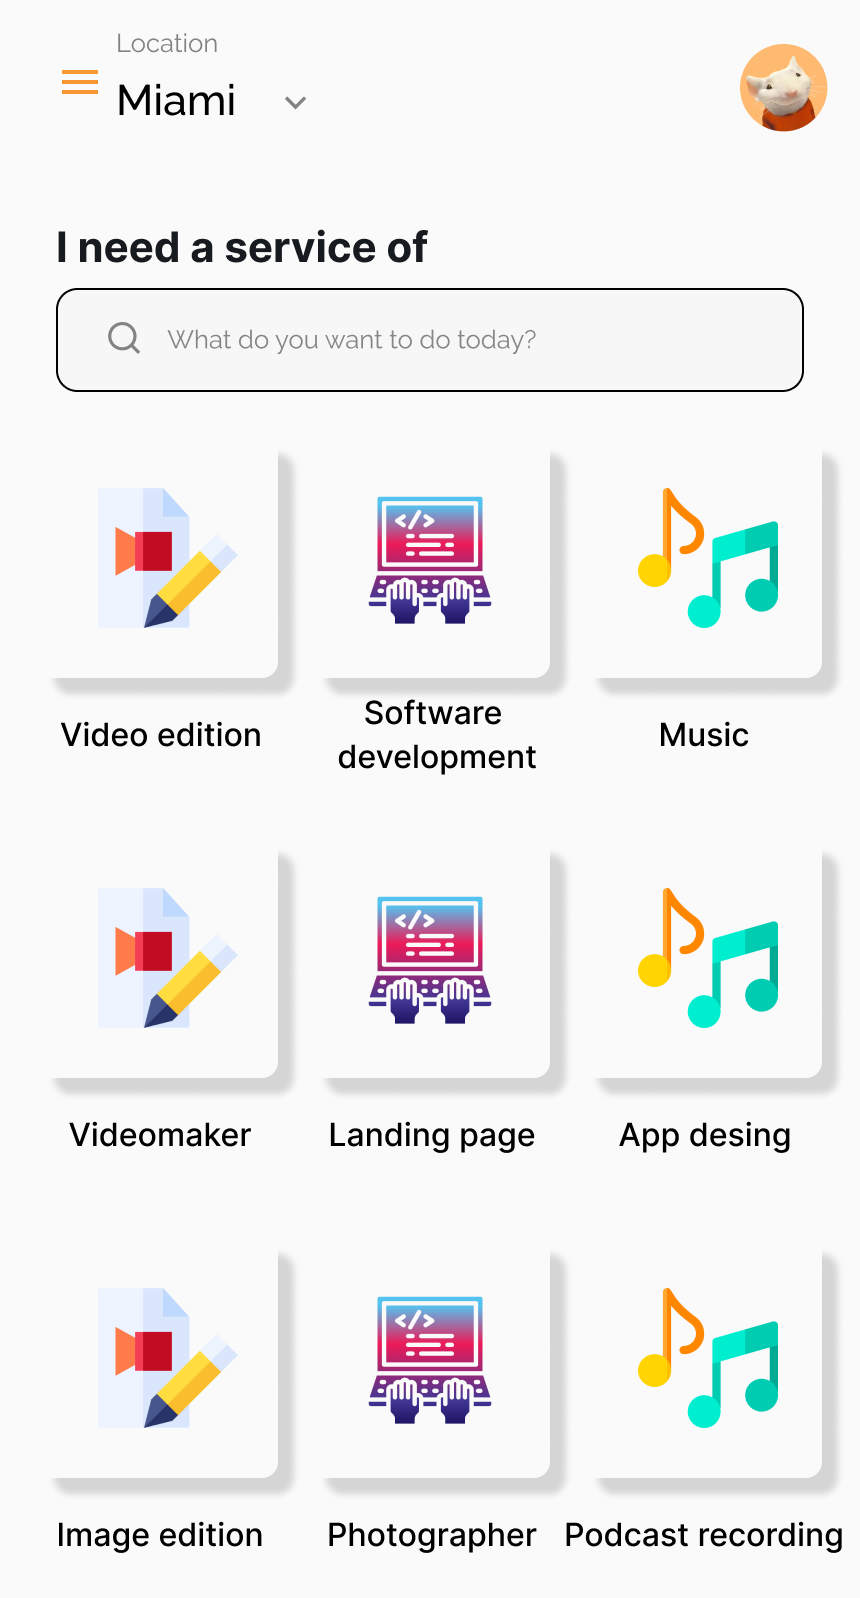
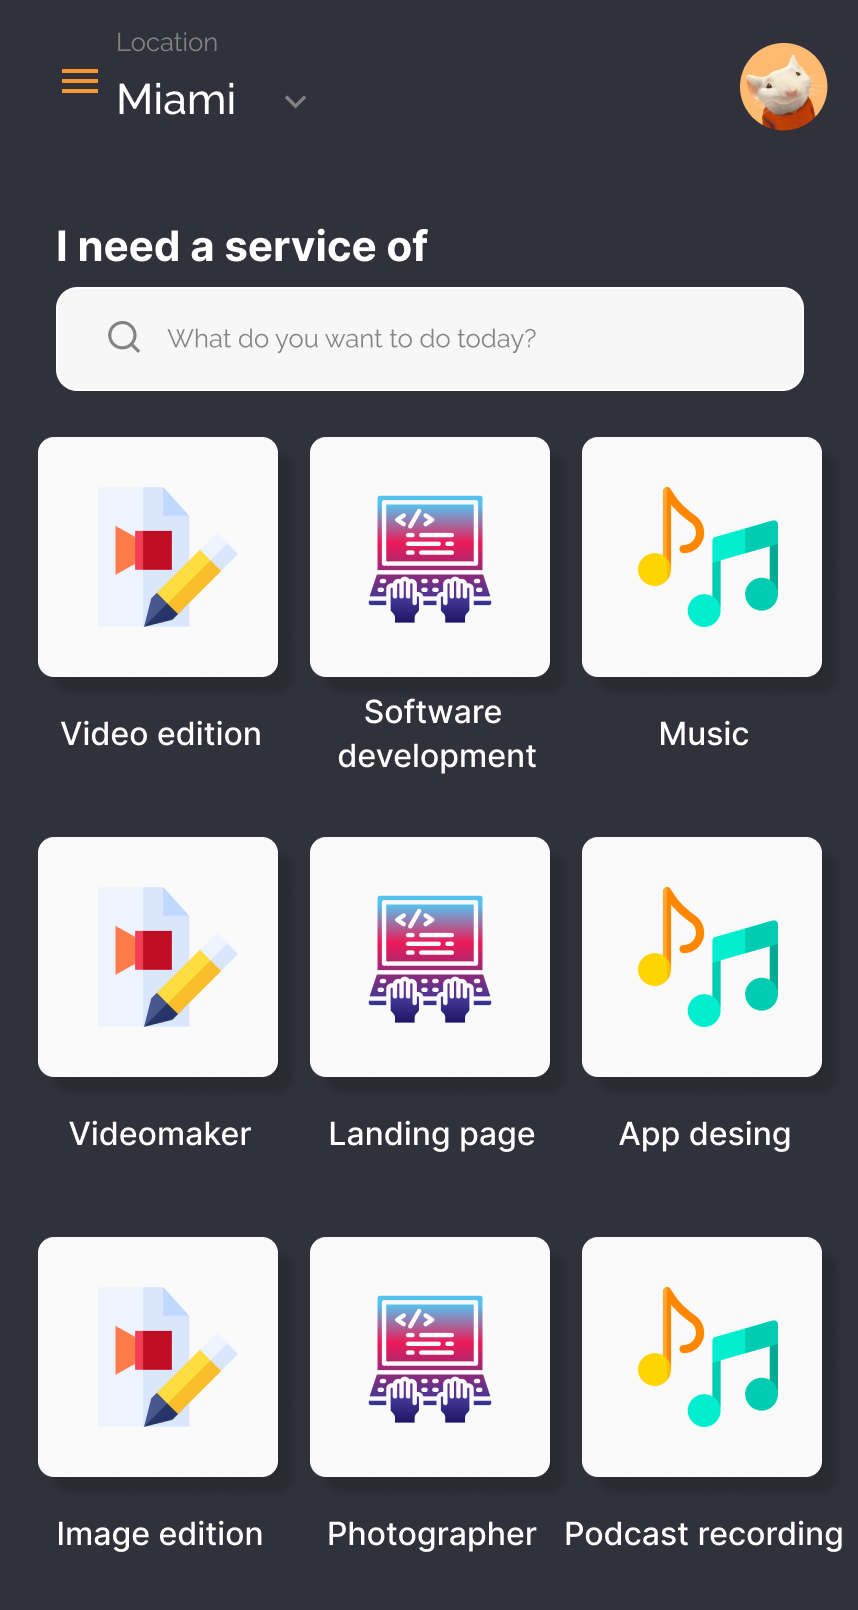
feat: :sparkles: ok

diff --git a/src/app/profile/[user]/page.tsx b/src/app/profile/[user]/page.tsx
@@ -1,61 +1,63 @@
-'use client';
+"use client";
 
-import ProfileHeader from '@/components/ProfileHeader';
-import ProfileStats from '@/components/ProfileStats';
-import StatisticsButton from '@/components/StatisticButton';
-import React from 'react';
-import {CardPost} from "@/components/CardPost";
+import ProfileHeader from "@/components/ProfileHeader";
+import ProfileStats from "@/components/ProfileStats";
+import StatisticsButton from "@/components/StatisticButton";
+import React from "react";
+import { CardPost } from "@/components/CardPost";
 
 interface posts {
-    imageUrl: string,
-    title: string,
-    username: string,
-    photoUrl: string,
-    profession: string
+  imageUrl: string;
+  title: string;
+  username: string;
+  photoUrl: string;
+  profession: string;
 }
 
 const TikTokerProfile = () => {
-    const posts: posts[] = [
-        {
-            imageUrl: '/post.png',
-            title: 'Lorem ipsum dolor sit amet',
-            username: 'John Doe',
-            photoUrl: '/user.png',
-            profession: 'TikToker'
-        },
-        {
-            imageUrl: '/post.png',
-            title: 'Lorem ipsum dolor sit amet',
-            username: 'John Doe',
-            photoUrl: '/user.png',
-            profession: 'TikToker'
-        },
-        {
-            imageUrl: '/post.png',
-            title: 'Lorem ipsum dolor sit amet',
-            username: 'John Doe',
-            photoUrl: '/user.png',
-            profession: 'TikToker'
-        }
-    ];
-    return (
-        <div className="container bg-body mx-auto max-w-2xl">
+  const posts: posts[] = [
+    {
+      imageUrl: "/post.png",
+      title: "Lorem ipsum dolor sit amet",
+      username: "John Doe",
+      photoUrl: "/user.png",
+      profession: "TikToker",
+    },
+    {
+      imageUrl: "/post.png",
+      title: "Lorem ipsum dolor sit amet",
+      username: "John Doe",
+      photoUrl: "/user.png",
+      profession: "TikToker",
+    },
+    {
+      imageUrl: "/post.png",
+      title: "Lorem ipsum dolor sit amet",
+      username: "John Doe",
+      photoUrl: "/user.png",
+      profession: "TikToker",
+    },
+  ];
+  return (
+    <div className="container bg-body mx-auto max-w-2xl pb-20">
+      <ProfileHeader />
+      <ProfileStats />
 
-            <ProfileHeader/>
-            <ProfileStats/>
-
-            <div className="flex justify-center mt-4">
-                <StatisticsButton/>
-            </div>
-            {
-                posts.map((post, index) => (
-                    <CardPost key={index} imageUrl={post.imageUrl} title={post.title}
-                              username={post.username} photoUrl={post.photoUrl} profession={post.profession}/>
-                ))
-            }
-        </div>
-
-    );
+      <div className="flex justify-center mt-4">
+        <StatisticsButton />
+      </div>
+      {posts.map((post, index) => (
+        <CardPost
+          key={index}
+          imageUrl={post.imageUrl}
+          title={post.title}
+          username={post.username}
+          photoUrl={post.photoUrl}
+          profession={post.profession}
+        />
+      ))}
+    </div>
+  );
 };
 
 export default TikTokerProfile;

diff --git a/src/components/CardPost/index.tsx b/src/components/CardPost/index.tsx
@@ -1,21 +1,36 @@
 import React from "react";
-import {CardHeader} from "@/components/CardHeader";
+import { CardHeader } from "@/components/CardHeader";
 import Image from "next/image";
 
 interface Props {
-    imageUrl: string;
-    title: string;
-    username: string;
-    photoUrl: string;
-    profession: string;
+  imageUrl: string;
+  title: string;
+  username: string;
+  photoUrl: string;
+  profession: string;
 }
 
-export const CardPost = ({imageUrl, title, username, photoUrl, profession}: Props) => {
-    return (
-        <div className="rounded-md shadow-md p-4 mt-4">
-            <CardHeader username={username} photoUrl={photoUrl} profession={profession}/>
-            <Image src={imageUrl} alt={title} className="w-full h-28 object-cover" style={{height: '279px'}}
-                   width={100} height={100}/>
-        </div>
-    );
+export const CardPost = ({
+  imageUrl,
+  title,
+  username,
+  photoUrl,
+  profession,
+}: Props) => {
+  return (
+    <div className="bg-card rounded-md shadow-md my-4 mx-2 p-4">
+      <CardHeader
+        username={username}
+        photoUrl={photoUrl}
+        profession={profession}
+      />
+      <Image
+        src={imageUrl}
+        alt={title}
+        className="w-full rounded-lg h-48 object-cover"
+        width={100}
+        height={100}
+      />
+    </div>
+  );
 };

diff --git a/src/components/CardHeader/index.tsx b/src/components/CardHeader/index.tsx
@@ -2,25 +2,25 @@ import React from "react";
 import Image from "next/image";
 
 interface Props {
-    username: string;
-    photoUrl: string;
-    profession: string;
+  username: string;
+  photoUrl: string;
+  profession: string;
 }
 
-export const CardHeader = ({username, photoUrl, profession}: Props) => {
-    return (
-        <div className="flex items-center mb-4">
-            <Image
-                src={photoUrl}
-                alt={username}
-                className="w-12 h-12 rounded-full mr-4 object-cover border-4 border-orange-500"
-                width={48}
-                height={48}
-            />
-            <div>
-                <h5 className="text-md font-bold text-black">{username}</h5>
-                <p className="text-gray-600">{profession}</p>
-            </div>
-        </div>
-    );
+export const CardHeader = ({ username, photoUrl, profession }: Props) => {
+  return (
+    <div className="flex items-center mb-4">
+      <Image
+        src={photoUrl}
+        alt={username}
+        className="w-12 h-12 rounded-full mr-4 object-cover border-2 border-primary"
+        width={48}
+        height={48}
+      />
+      <div>
+        <h5 className="text-md font-bold text-black">{username}</h5>
+        <p className="text-gray-600">{profession}</p>
+      </div>
+    </div>
+  );
 };

diff --git a/tailwind.config.js b/tailwind.config.js
@@ -3,25 +3,27 @@
 const colors = require("tailwindcss/colors");
 
 module.exports = {
-    content: [
-        "./app/**/*.{js,ts,jsx,tsx,mdx}",
-        "./pages/**/*.{js,ts,jsx,tsx,mdx}",
-        "./components/**/*.{js,ts,jsx,tsx,mdx}",
+  content: [
+    "./app/**/*.{js,ts,jsx,tsx,mdx}",
+    "./pages/**/*.{js,ts,jsx,tsx,mdx}",
+    "./components/**/*.{js,ts,jsx,tsx,mdx}",
 
-        // Or if using `src` directory:
-        "./src/**/*.{js,ts,jsx,tsx,mdx}",
-    ],
-    theme: {
-        colors: {
-            primary: "#ED7D2D",
-            "primary-light": "#F9D8C0",
-            secondary: "#171A1F",
-            body: "#30313A",
-            white: colors.white,
-            gray: colors.gray,
-            bone: "#fafafa",
-        },
-        extend: {},
+    // Or if using `src` directory:
+    "./src/**/*.{js,ts,jsx,tsx,mdx}",
+  ],
+  theme: {
+    colors: {
+      primary: "#ED7D2D",
+      "primary-light": "#F9D8C0",
+      secondary: "#171A1F",
+      body: "#30313A",
+      white: colors.white,
+      gray: colors.gray,
+      card: "#171821",
+      bone: "#fafafa",
+      orange: colors.orange,
     },
-    plugins: [],
+    extend: {},
+  },
+  plugins: [],
 };

diff --git a/src/app/components/layout/BottomTabMenu.tsx b/src/app/components/layout/BottomTabMenu.tsx
@@ -15,7 +15,7 @@ import Icon from "../ui/Icon";
 import { usePathname, useRouter } from "next/navigation";
 export default function BottomTabMenu() {
   return (
-    <div className="bg-white fixed bottom-0 right-0 w-full flex justify-around items-center border-t border-gray-300 h-20">
+    <div className="bg-body fixed bottom-0 right-0 w-full flex justify-around items-center border-t border-bone h-20">
       <MenuItem
         icon={home}
         activeIcon={homeActive}
@@ -44,7 +44,7 @@ export default function BottomTabMenu() {
         icon={profile}
         activeIcon={profileActive}
         label={"Profile"}
-        route="profile"
+        route="profile/myke_thebest"
       />
     </div>
   );
@@ -72,9 +72,7 @@ function MenuItem({
       className="flex flex-col items-center"
     >
       <Icon src={isActive ? activeIcon : icon} />
-      <span
-        className={`text-xs ${isActive ? "text-primary" : "text-secondary"}`}
-      >
+      <span className={`text-xs ${isActive ? "text-primary" : "text-bone"}`}>
         {label}
       </span>
     </div>

diff --git a/src/app/home/page.tsx b/src/app/home/page.tsx
@@ -6,7 +6,7 @@ import { useRouter } from "next/navigation";
 export default function Home() {
   const router = useRouter();
   return (
-    <div className="h-screen flex justify-center bg-bone">
+    <div className="h-screen flex justify-center bg-body">
       <Image
         onClick={() => {
           router.push("/home/createOffer");

diff --git a/src/components/StatisticButton/index.tsx b/src/components/StatisticButton/index.tsx
@@ -2,7 +2,7 @@ import React from "react";
 
 const StatisticsButton = () => {
   return (
-    <button className="border border-orange-500 px-8 py-4 rounded-full text-orange-500">
+    <button className="border border-primary px-8 py-4 rounded-full text-primary">
       Statistics
     </button>
   );
